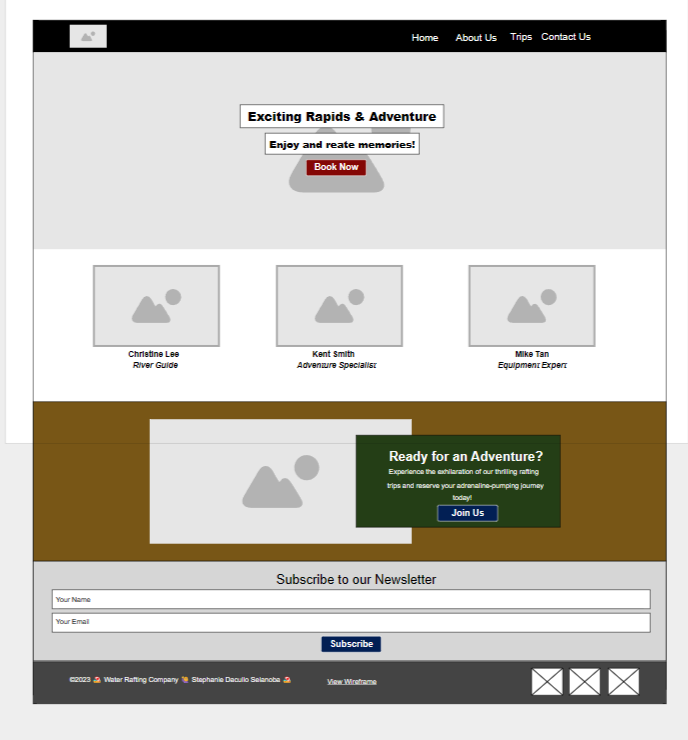
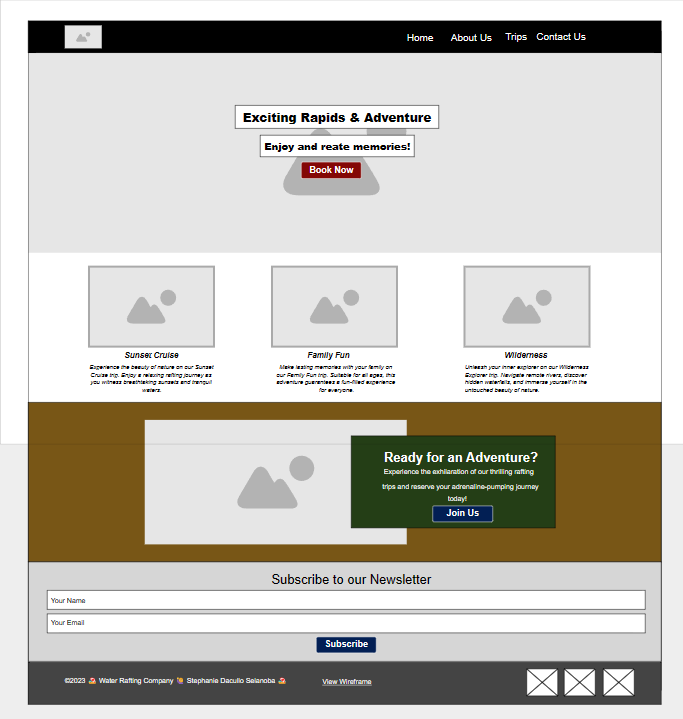
commit

Changed region(s): [[0.0307, 0.0306, 0.9839, 0.9791], [0.3382, 0.1224, 0.6457, 0.2754]]

diff --git a/wwr/about.html b/wwr/about.html
@@ -4,7 +4,7 @@
 <head>
     <meta charset="utf-8">
     <meta name="viewport" content="width=device-width, initial-scale=1.0">
-    <title>About Us | Stephanie Dacullo Selanoba</title>
+    <title>About Us | Water Rafting Company</title>
     <meta name="description"
         content="The rafting site plan includes the site purpose, the target audience, branding information, and a style guide for the sourse website project.">
     <meta name="author" content="Stephanie Dacullo Selanoba">
@@ -27,20 +27,11 @@
             <div class="hero_content">
                 <h1>White Water Rafting</h1>
                 <article>
-                    <p>Lorem ipsum dolor sit amet consectetur adipisicing elit. Minima velit, voluptates optio unde
-                        nesciunt
-                        illum perferendis expedita sit. Illo vero illum ullam facere autem adipisci aliquid rerum
-                        maxime,
-                        nostrum, nemo consectetur ex in dignissimos quasi labore eius voluptas consequatur veritatis
-                        enim
-                        doloribus eligendi repellendus earum. Quisquam mollitia totam excepturi magnam voluptates, natus
-                        eius eum necessitatibus iste ullam culpa dicta voluptatum neque vel minus doloribus. Velit
-                        autem,
-                        atque natus recusandae obcaecati omnis non consectetur minima rem reprehenderit nesciunt quae
-                        illum
-                        voluptas esse itaque deserunt quod! Unde quaerat maiores, deleniti odio iusto commodi sequi,
-                        laborum
-                        amet cum temporibus nesciunt deserunt quasi natus.</p>
+                    <p>Experience the thrill of white water rafting as you navigate through roaring rapids and breathtaking
+                        landscapes. Our expert guides and top-notch equipment ensure your safety and enjoyment throughout the
+                        adventure. Feel the adrenaline rush as you conquer each rapid, immersing yourself in the power and beauty of nature. Our
+                        experienced guides will lead you through the most exciting routes, sharing their extensive knowledge of the
+                        river.</p>
                     <img src="images/happy.png" alt="Happy Client">
                 </article>
             </div>
@@ -48,16 +39,13 @@
         <section>
             <h2>History</h2>
             <div class="history_section">
-                <p>Lorem ipsum dolor sit amet consectetur, adipisicing elit. Magnam voluptatum quam quis, perferendis
-                    totam
-                    est, placeat quas adipisci sapiente esse expedita commodi, labore enim eos explicabo minima
-                    dignissimos
-                    non ex iusto? Corrupti dolores ratione voluptatum, atque delectus suscipit dicta est.</p>
+                <p>Established in 1995, we have a rich history of providing unforgettable rafting experiences. From our humble
+                    beginnings to becoming a renowned name in the industry, we have constantly strived to exceed
+                    expectations.</p>
                 <img src="images/happy.png" alt="Happy Client">
-                <p>Lorem ipsum dolor sit amet consectetur adipisicing elit. Quos soluta iusto natus est adipisci eius
-                    repellendus itaque vero reprehenderit optio tenetur, possimus animi omnis laudantium, enim quae.
-                    Illum,
-                    harum iste?</p>
+                <p>Our commitment to safety, professionalism, and exceptional customer service has earned us the trust and
+                    loyalty of thousands of satisfied clients. Join us on the river and create memories that will last a
+                    lifetime.</p>
             </div>
         </section>
         <section>

diff --git a/wwr/styles/styles.css b/wwr/styles/styles.css
@@ -68,23 +68,22 @@ header nav a:hover {
   margin-top: 50px;
 }
 
-.grid-item .caption {
-  font-weight: bold;
-  margin-bottom: 0;
+.grid-item p {
+  /* font-weight: bold; */
+  margin-top: 0;
 }
 
-.grid-item .title {
+.grid-item h2 {
   font-style: italic;
   font-weight: bold;
   margin-top: 0;
 }
 
 .hero {
+  width: 100%;
+  height: auto;
   position: relative;
-}
-
-.hero img {
-  text-align: left;
+  overflow: hidden;
 }
 
 .hero .content {

diff --git a/wwr/trips.html b/wwr/trips.html
@@ -82,7 +82,7 @@
     <footer>
         <p>©2023 🏖 Water Rafting Company 🙋♀ Stephanie Dacullo Selanoba 🏖</p>
         <div class="wireframe">
-            <a href="images/wireframe.png" target="_blank">View Wireframe</a>
+            <a href="images/trips-wireframe.png" target="_blank">View Wireframe</a>
         </div>
         <nav class="sociallinks">
             <a href="https://www.facebook.com">
